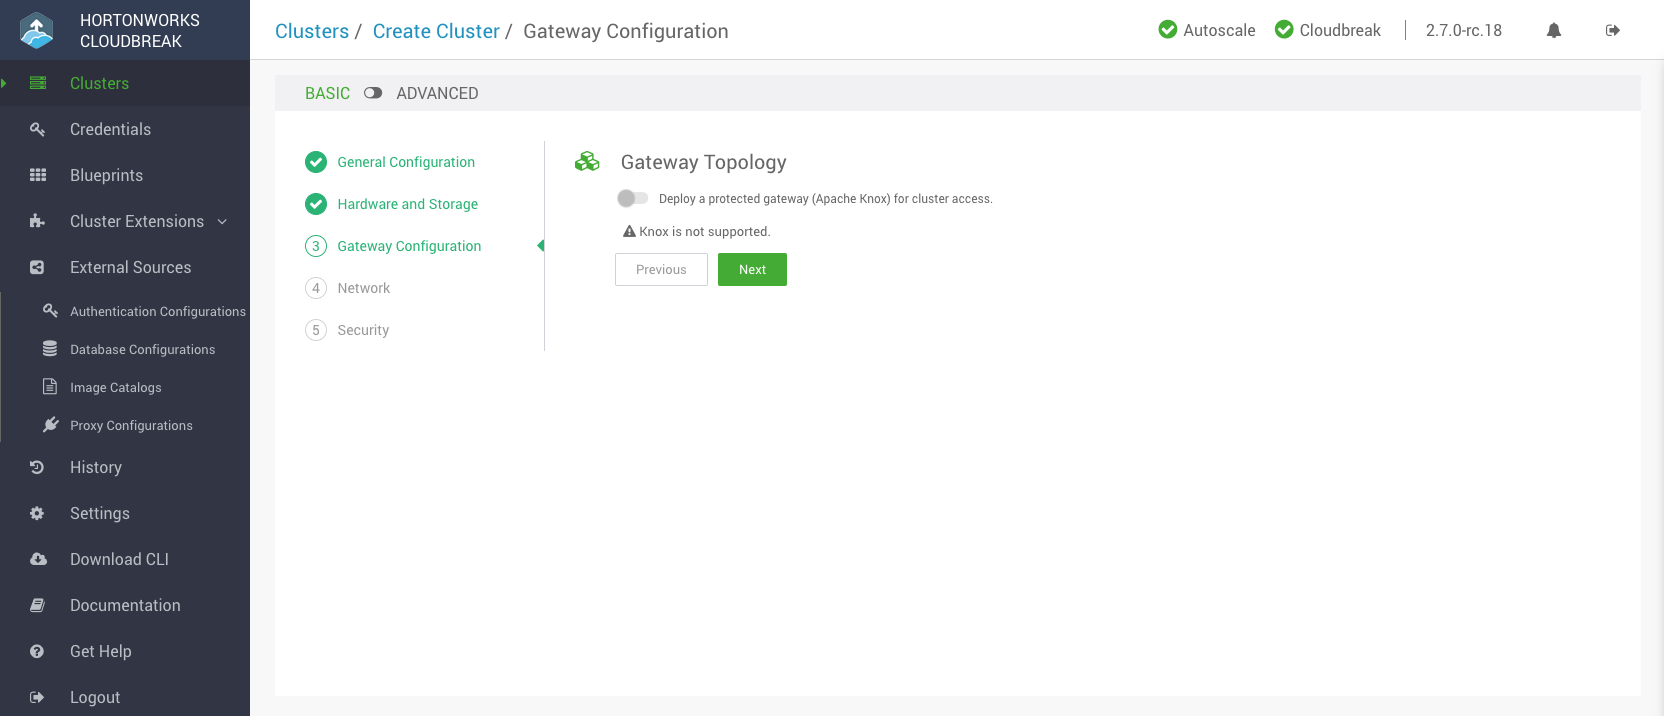
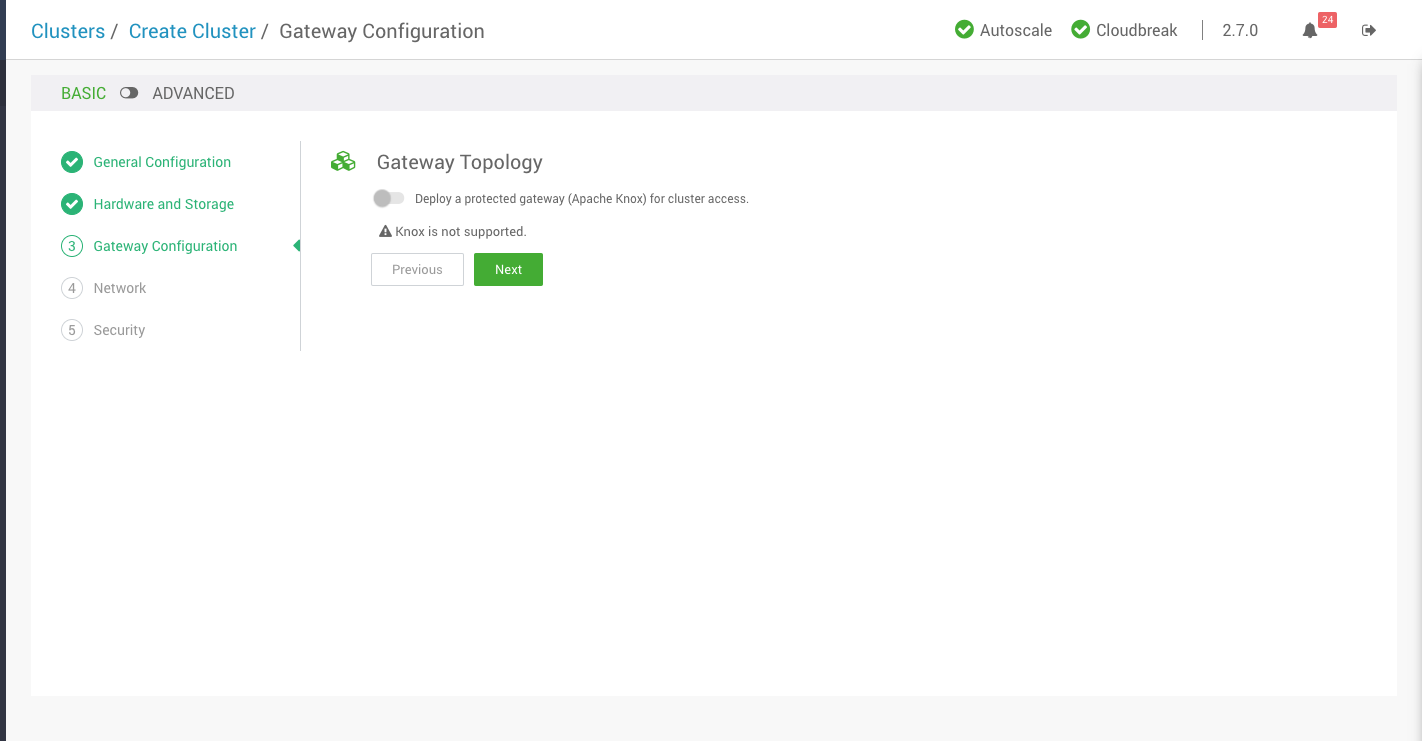
Add custom blueprint and update screenshots

diff --git a/README.md b/README.md
@@ -34,13 +34,14 @@ Crash Course for Cloudbreak for Data Works Summit 2018 San Jose.
   - [c. Create a Scaling Policy](#c-create-a-scaling-policy)
   - [d. Configure Autoscaling Settings](#d-configure-autoscaling-settings)
 - [6. Creating an HDF cluster on AWS](#6-creating-an-hdf-cluster-on-aws)
-  - [a. General Configuration](#a-general-configuration)
-  - [b. Hardware and Storage](#b-hardware-and-storage)
-  - [c. Gateway Configuration](#c-gateway-configuration)
-  - [d. Network](#d-network)
-  - [e. Security](#e-security)
-  - [f. Cluster Summary](#f-cluster-summary)
-  - [g. Ambari](#g-ambari)
+  - [a. Create New HDF Blueprint](#b-create-new-hdf-blueprint)
+  - [b. General Configuration](#b-general-configuration)
+  - [c. Hardware and Storage](#c-hardware-and-storage)
+  - [d. Gateway Configuration](#d-gateway-configuration)
+  - [e. Network](#e-network)
+  - [f. Security](#f-security)
+  - [g. Cluster Summary](#g-cluster-summary)
+  - [h. Ambari](#h-ambari)
 ---------------
 
 # Cloudbreak launches clusters on the cloud in 3 easy steps:
@@ -249,9 +250,14 @@ Once you are done accessing the cluster, You can now terminate the cluster and g
 ## 6. Creating an HDF cluster on AWS
 As of Cloudbreak 2.7, you can deploy Hortonworks Data Flow (HDF) clusters.  Currently there are two HDF cluster types supported: Flow Management (NiFi) and Messaging Management (Kafka).  We will walk you through deploying an HDF 3.1 Flow Management cluster using Cloudbreak 2.7.
 
-In the left manu, click on `Clusters`.  Cloudbreak will display configured clusters.  Click the `CREATE CLUSTER` button.  Cloudbreak will display the Create Cluster wizard
+Cloudbreak expects HDF clusters to be deployed with security (Kerbers or LDAP).  Ensuring LDAP and/or Kerberos are propery setup is out of scope for this workshop.  Therefore, we'll need to modify the default HDF Flow Managment blueprint to loosen the security configuration.  This is not recommended for production use cases.
 
-#### a. General Configuration
+#### a. Create New HDF Blueprint
+
+In the left manu, click on `Blueprints`.
+
+#### b. General Configuration
+In the left manu, click on `Clusters`.  Cloudbreak will display configured clusters.  Click the `CREATE CLUSTER` button.  Cloudbreak will display the Create Cluster wizard
 
 By default, the General Configuration screen is displayed using the `BASIC` view.  The `ADVANCED` view gives you more control of AWS and cluster settings, to include tags.  You can change your view to `ADVANCED` manually or you can change your Cloudbreak preferences to show `ADVANCED` view by default.  We wil use the `BASIC` view.
 
@@ -269,7 +275,7 @@ By default, the General Configuration screen is displayed using the `BASIC` view
 
 Click the green `NEXT` button.
 
-#### b. Hardware and Storage
+#### c. Hardware and Storage
 
 Cloudbreak will display the `Hardware and Storage`screen.  On this screen, you have the ability to change the instance types, attached storage and where the Ambari server will be installed.  As you you can see, we will deploy 1 NiFi and 1 Zookeeper node.  In a prodution environment you would typically have at least 3 Zookeper nodes.  We will use the defaults.
 
@@ -277,7 +283,7 @@ Cloudbreak will display the `Hardware and Storage`screen.  On this screen, you h
 
 Click the green `NEXT` button.
 
-#### c. Gateway Configuration
+#### d. Gateway Configuration
 
 Cloudbreak will display the `Gateway Configuration` screen.  On this screen, you have the ability to enable a protected gateway.  This gateway uses Knox to provide a secure access point for the cluster.  Cloudbreak does not currently support configuring Knox for HDF.  We will leave this option disabled.
 
@@ -285,7 +291,7 @@ Cloudbreak will display the `Gateway Configuration` screen.  On this screen, you
 
 Click the green `NEXT` button.
 
-#### d. Network
+#### e. Network
 
 Cloudbreak will display the `Network` screen.  On this screen, you have the ability to specify the `Network`, `Subnet`, and `Security Groups`.  Cloudbreak defaults to creating new items.  For production use cases, we highly recommend creating and refining your own definitions within the cloud platform.  You can tell Cloudbreak to use those via the drop down menus.  We will use the default options to create new.
 
@@ -293,7 +299,7 @@ Cloudbreak will display the `Network` screen.  On this screen, you have the abil
 
 Click the green `NEXT` button.
 
-#### e. Security
+#### f. Security
 
 Cloudbreak will display the `Security` screen.  On this screen, you have the ability to specify the Ambari admin username and password.  You can create a new SSH key or selecting an existing on.  And finally, you have the ability to enable Kerberos on the cluster.  We will use `admin` for the username and `BadPass#1` for the password.  Select an existing SSH key from the drop down list.  We will NOT be enabling Kerberos.
 
@@ -303,7 +309,7 @@ You have the ability to display a `JSON` version of the blueprint.  You also hav
 
 Click the green `CREATE CLUSTER` button.
 
-#### f. Cluster Summary
+#### g. Cluster Summary
 
 Cloudbreak will display the `Cluster Summary` page.  It will generally take between 10-15 minutes for the cluster to be fully deployed.  As you can see, this screen looks similar to and HDP cluster.  The big difference is the `Blueprint` and `HDF Version`.
 
@@ -312,7 +318,7 @@ Cloudbreak will display the `Cluster Summary` page.  It will generally take betw
 
 Click on the `Ambari URL` to open the Ambari UI.
 
-#### g. Ambari
+#### h. Ambari
 
 You will likely see a browser warning when you first open the Ambari UI.  That is because we are using self-signed certificates.
 
